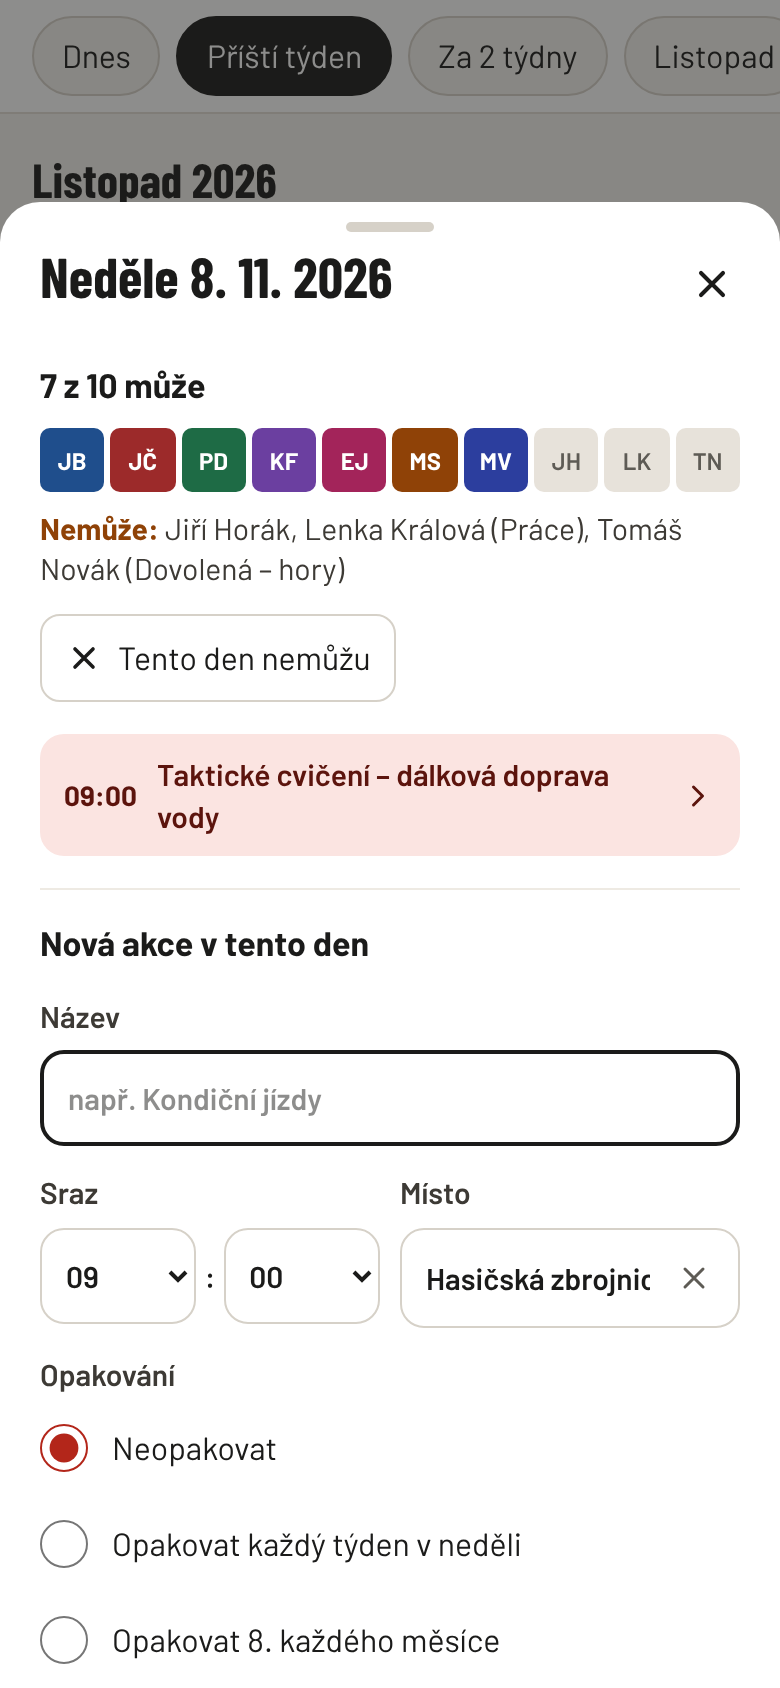
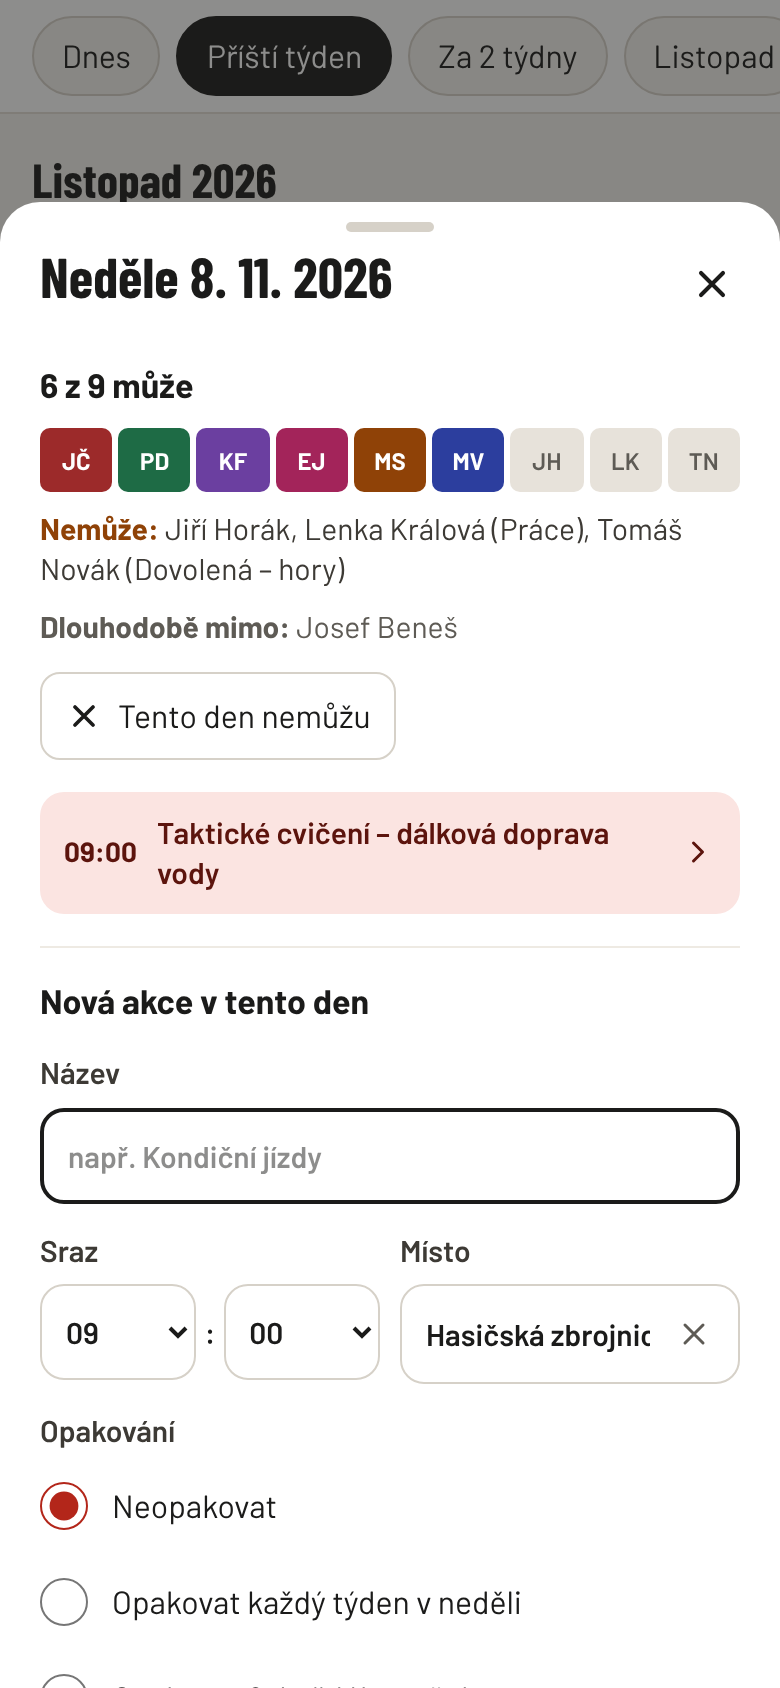
Leave long-term unavailable out of counts; add past events history
- Members with "Nejsem k dispozici" on are not counted in the plan, day
  panel or event page and are listed as "Dlouhodobě mimo" instead.
- Jednotka: collapsed "Proběhlé akce" list with who came and who didn't.
  Past event pages use past wording and the bar corrects attendance.
- History stays accurate: past exceptions are kept, and members don't
  count before the day they were added.

Claude-Session: https://claude.ai/code/session_01Tw2HyHCeMMuzQudBhUZWgA

Changed region(s): [[0.0308, 0.3389, 0.9538, 1.0], [0.0308, 0.2156, 0.9231, 0.3081], [0.9231, 0.7393, 0.9538, 0.8009]]

diff --git a/src/routes/jednotka/+page.svelte b/src/routes/jednotka/+page.svelte
@@ -72,6 +72,11 @@
 	});
 	let showAllEvents = $state(false);
 
+	// Past events, newest first: who was there and who wasn't. Collapsed, it's rarely needed.
+	const pastEvents = $derived(data.events.filter((e) => e.date < today).reverse());
+	let pastOpen = $state(false);
+	let showAllPast = $state(false);
+
 	async function backAvailable(m: Member) {
 		await data.setUnavailable(m.id, false).catch(() => toasts.error());
 	}
@@ -279,7 +284,7 @@
 						</span>
 						<span class="shrink-0 font-bold whitespace-nowrap"
 							>{av.available.length}<span class="text-sm font-semibold text-faint"
-								>/{data.members.length}</span
+								>/{av.total}</span
 							></span
 						>
 						<Icon name="chevronRight" size={18} class="shrink-0 text-faint" />
@@ -297,6 +302,59 @@
 				{showAllEvents ? 'Zobrazit méně' : `Zobrazit všechny (${upcomingEvents.length})`}
 				<Icon name={showAllEvents ? 'chevronUp' : 'chevronDown'} />
 			</button>
+		{/if}
+	</section>
+
+	<!-- Past events -->
+	<section class="flex flex-col rounded-2xl border border-line bg-surface px-4 py-2">
+		<button
+			type="button"
+			aria-expanded={pastOpen}
+			class="flex min-h-11 items-center justify-between text-left"
+			onclick={() => (pastOpen = !pastOpen)}
+		>
+			<h2 class="text-[1.0625rem] font-bold">Proběhlé akce ({pastEvents.length})</h2>
+			<Icon name={pastOpen ? 'chevronUp' : 'chevronDown'} />
+		</button>
+		{#if pastOpen}
+			<p class="pb-2 text-[0.9375rem] leading-snug text-muted">
+				Kdo přišel a kdo ne, podle zapsaných nepřítomností.
+			</p>
+			{#if pastEvents.length === 0}
+				<p class="pb-2 text-[0.9375rem] text-muted">Zatím žádná akce neproběhla.</p>
+			{/if}
+			<ul class="flex flex-col">
+				{#each showAllPast ? pastEvents : pastEvents.slice(0, 10) as ev (ev.id)}
+					{@const av = data.availability(ev.date)}
+					<li class="border-t border-line-soft">
+						<a href="/akce/{ev.id}" class="flex min-h-[3.25rem] items-center gap-3 py-1.5">
+							<span class="flex min-w-0 flex-1 flex-col">
+								<span class="font-medium">{ev.title}</span>
+								<span class="text-[0.9375rem] text-muted"
+									>{formatShort(ev.date)}{av.away.length
+										? ` · nepřišli: ${av.away.map(({ member }) => member.name).join(', ')}`
+										: ''}</span
+								>
+							</span>
+							<span class="shrink-0 font-bold whitespace-nowrap"
+								>{av.available.length}<span class="text-sm font-semibold text-faint">/{av.total}</span></span
+							>
+							<Icon name="chevronRight" size={18} class="shrink-0 text-faint" />
+						</a>
+					</li>
+				{/each}
+			</ul>
+			{#if pastEvents.length > 10}
+				<button
+					type="button"
+					aria-expanded={showAllPast}
+					class="flex min-h-11 items-center justify-between border-t border-line-soft font-semibold text-muted"
+					onclick={() => (showAllPast = !showAllPast)}
+				>
+					{showAllPast ? 'Zobrazit méně' : `Zobrazit všechny (${pastEvents.length})`}
+					<Icon name={showAllPast ? 'chevronUp' : 'chevronDown'} />
+				</button>
+			{/if}
 		{/if}
 	</section>
 

diff --git a/src/lib/data.svelte.ts b/src/lib/data.svelte.ts
@@ -20,6 +20,7 @@ import {
 	formatShort,
 	OPEN_END,
 	todayKey,
+	toKey,
 	weekdayIndex,
 	type DateKey
 } from './dates';
@@ -33,6 +34,8 @@ export interface Member {
 	color: string;
 	/** Archived members drop out of the plan; their colour becomes free again. */
 	archived: boolean;
+	/** Day the member was added; earlier days don't count them (history). */
+	since?: DateKey;
 }
 
 /** Whole-day absence, inclusive range. */
@@ -120,10 +123,9 @@ export function absenceWhen(a: Absence, today: DateKey): string {
 	return (rule ? `${rule}, ${range}` : range) + except;
 }
 
-/** The exception list with `day` added or removed; past days are dropped to keep it short. */
+/** The exception list with `day` added or removed. Past days stay: they are the history. */
 function withException(a: Absence, day: DateKey, on: boolean): DateKey[] {
-	const today = todayKey();
-	const rest = a.except.filter((d) => d !== day && d >= today);
+	const rest = a.except.filter((d) => d !== day && d >= a.from);
 	return (on ? [...rest, day] : rest).sort();
 }
 
@@ -197,6 +199,10 @@ const byDateTime = (a: Event, b: Event) => (a.date + a.time).localeCompare(b.dat
 export interface DayAvailability {
 	available: Member[];
 	away: { member: Member; absence: Absence }[];
+	/** Long-term unavailable ("Nejsem k dispozici" on): left out of the count and the bar. */
+	inactive: { member: Member; absence: Absence }[];
+	/** Members who count that day: available + away. */
+	total: number;
 }
 
 const collator = new Intl.Collator('cs');
@@ -351,7 +357,14 @@ class Data {
 					this.allMembers = snap.docs
 						.map((d) => {
 							const x = d.data();
-							return { id: d.id, name: x.name, color: x.color, archived: x.archived === true };
+							const created: Date | undefined = x.createdAt?.toDate?.();
+							return {
+								id: d.id,
+								name: x.name,
+								color: x.color,
+								archived: x.archived === true,
+								...(created ? { since: toKey(created) } : {})
+							};
 						})
 						.sort(byLastName);
 					this.loaded.members = true;
@@ -505,8 +518,18 @@ class Data {
 	availability(day: DateKey): DayAvailability {
 		const available: Member[] = [];
 		const away: DayAvailability['away'] = [];
+		const inactive: DayAvailability['inactive'] = [];
 		for (const member of this.members) {
+			if (member.since && member.since > day) continue;
 			const pending = this.pending[`${member.id}|${day}`];
+			const off =
+				pending === false
+					? undefined
+					: this.absences.find((a) => a.memberId === member.id && isSwitch(a) && covers(a, day));
+			if (off) {
+				inactive.push({ member, absence: off });
+				continue;
+			}
 			const absence =
 				pending === false
 					? undefined
@@ -517,7 +540,7 @@ class Data {
 			if (absence) away.push({ member, absence });
 			else available.push(member);
 		}
-		return { available, away };
+		return { available, away, inactive, total: available.length + away.length };
 	}
 
 	/** Default places first, then places used before (most recent first), for the event form. */

diff --git a/src/routes/akce/[id]/+page.svelte b/src/routes/akce/[id]/+page.svelte
@@ -4,7 +4,7 @@
 	import { access } from '#lib/access.svelte.js';
 	import { initials } from '#lib/colors.js';
 	import { data } from '#lib/data.svelte.js';
-	import { formatLong, OPEN_END, formatShort } from '#lib/dates.js';
+	import { formatLong, OPEN_END, formatShort, todayKey } from '#lib/dates.js';
 	import { describe, lastDay, nextAfter, WEEKLY } from '#lib/repeat.js';
 	import { toasts } from '#lib/toast.svelte.js';
 	import AvailabilityBar from '#lib/components/AvailabilityBar.svelte';
@@ -16,7 +16,9 @@
 	const me = $derived(data.member(access.memberId));
 	const avail = $derived(ev ? data.availability(ev.date) : null);
 	const myAbsence = $derived(ev && me ? data.absenceOn(me.id, ev.date) : undefined);
-	const total = $derived(data.members.length);
+	const total = $derived(avail?.total ?? 0);
+	/** Past events show who was there; the bar still corrects it. */
+	const past = $derived(!!ev && ev.date < todayKey());
 
 	const series = $derived(ev ? data.seriesOf(ev) : undefined);
 	/** Later repeats exist, so "this and all later" choices make sense. */
@@ -187,7 +189,7 @@
 		</section>
 
 		<div class="flex flex-col gap-3.5 px-5 pb-8">
-			{#if me}
+			{#if me && !past}
 				{#if !myAbsence}
 					<div class="flex flex-col gap-3 rounded-2xl border border-line bg-surface p-4">
 						<div class="flex items-center gap-2.5">
@@ -245,8 +247,13 @@
 
 			{#if avail}
 				<div class="flex flex-col gap-2.5 rounded-2xl border border-line bg-surface p-4">
-					<span class="font-bold">{avail.available.length} z {total} přijde</span>
+					<span class="font-bold"
+						>{past ? `Přišlo ${avail.available.length} z ${total}` : `${avail.available.length} z ${total} přijde`}</span
+					>
 					<AvailabilityBar availability={avail} ontoggle={(m) => toggleMemberDay(m, ev.date)} />
+					{#if past}
+						<span class="text-sm text-muted">Klepnutím na člena opravíte docházku.</span>
+					{/if}
 					<div class="flex flex-wrap gap-1.5 pt-1">
 						{#each avail.available as m (m.id)}
 							<span class="rounded-lg px-2 py-1 text-sm font-semibold text-white" style="background: {m.color}"
@@ -259,7 +266,7 @@
 				{#if avail.away.length}
 					<section class="flex flex-col rounded-2xl border border-line bg-surface p-4">
 						<h2 class="mb-1.5 text-[0.9375rem] font-bold tracking-[0.06em] text-warn uppercase">
-							Nepřijdou ({avail.away.length})
+							{past ? 'Nepřišli' : 'Nepřijdou'} ({avail.away.length})
 						</h2>
 						{#each avail.away as { member, absence } (member.id)}
 							<div class="flex items-center gap-2.5 border-t border-line-soft py-2.5">
@@ -274,6 +281,13 @@
 							</div>
 						{/each}
 					</section>
+				{/if}
+
+				{#if avail.inactive.length}
+					<p class="text-[0.9375rem] leading-snug text-muted">
+						<strong class="font-bold">Dlouhodobě mimo:</strong>
+						{avail.inactive.map(({ member }) => member.name).join(', ')}
+					</p>
 				{/if}
 			{/if}
 

diff --git a/src/routes/+page.svelte b/src/routes/+page.svelte
@@ -278,8 +278,7 @@
 	>
 		<button
 			type="button"
-			aria-label="{DOW_LONG[wd]} {formatDayMonth(key)}: může {av.available.length} z {data.members
-				.length}. Otevřít den."
+			aria-label="{DOW_LONG[wd]} {formatDayMonth(key)}: může {av.available.length} z {av.total}. Otevřít den."
 			class="flex min-h-11 w-10 shrink-0 flex-col items-center lg:w-[6.25rem] lg:flex-row lg:gap-2">
 			<span
 				class="text-xs font-bold tracking-[0.06em] lg:order-2 lg:text-sm lg:font-semibold lg:tracking-normal lg:normal-case {red
@@ -327,11 +326,11 @@
 				<span
 					class="shrink-0 text-right text-[1.1875rem] leading-tight font-bold whitespace-nowrap lg:hidden {countClass(
 						av.available.length,
-						data.members.length
+						av.total
 					)}"
 				>
 					{av.available.length}<span class="text-xs font-semibold text-faint"
-						>/{data.members.length}</span
+						>/{av.total}</span
 					>
 				</span>
 			</span>
@@ -341,11 +340,11 @@
 		<span
 			class="hidden w-[4.375rem] shrink-0 text-right text-xl font-bold whitespace-nowrap lg:block {countClass(
 				av.available.length,
-				data.members.length
+				av.total
 			)}"
 		>
 			{av.available.length}<span class="text-[0.8125rem] font-semibold text-faint"
-				>&nbsp;/{data.members.length}</span
+				>&nbsp;/{av.total}</span
 			>
 		</span>
 	</div>
@@ -389,8 +388,10 @@
 				>Členové ({data.members.length})</span
 			>
 			{#each data.members as m (m.id)}
-				<span class="flex min-h-[2.125rem] items-center gap-2.5 text-[0.9375rem]">
-					<span class="size-3.5 shrink-0 rounded" style="background: {m.color}"></span>{m.name}
+				{@const off = !!data.openAbsence(m.id)}
+				<span class="flex min-h-[2.125rem] items-center gap-2.5 text-[0.9375rem] {off ? 'text-muted' : ''}">
+					<span class="size-3.5 shrink-0 rounded {off ? 'bg-off' : ''}" style={off ? undefined : `background: ${m.color}`}
+					></span>{m.name}{#if off}<span class="sr-only">, není k dispozici</span>{/if}
 				</span>
 			{/each}
 		</section>

diff --git a/src/lib/demo.ts b/src/lib/demo.ts
@@ -42,6 +42,8 @@ export function demoData(count = 10): {
 		{ id: 'a6', memberId: 'm4', from: d(10), to: d(10), note: '', except: [] },
 		{ id: 'a7', memberId: 'm6', from: d(10), to: d(10), note: 'Práce', except: [] },
 		{ id: 'a8', memberId: 'm9', from: d(12), to: d(16), note: 'Služební cesta', except: [] },
+		{ id: 'a10', memberId: 'm0', from: d(-12), to: OPEN_END, note: 'Zranění', except: [] },
+		{ id: 'a11', memberId: 'm3', from: d(-7), to: d(-7), note: 'Práce', except: [] },
 		{ id: 'a9', memberId: 'm2', from: d(0), to: OPEN_END, note: 'Práce', except: [], repeat: { freq: 'week', every: 1, weekdays: [1] } }
 	];
 	const events: Event[] = [
@@ -54,6 +56,8 @@ export function demoData(count = 10): {
 			note: ''
 		},
 		{ id: 'e2', title: 'Kondiční jízdy', date: d(14), time: '18:00', place: 'Hasičská zbrojnice', note: '' },
+		{ id: 'e4', title: 'Kondiční jízdy', date: d(-7), time: '18:00', place: 'Hasičská zbrojnice', note: '' },
+		{ id: 'e5', title: 'Školení první pomoci', date: d(-20), time: '18:30', place: 'Klubovna', note: '' },
 		{ id: 'e3', title: 'Školení dýchací techniky', date: d(22), time: '18:30', place: 'Klubovna', note: '' }
 	];
 	const series: Series[] = [

diff --git a/src/lib/components/DayPanel.svelte b/src/lib/components/DayPanel.svelte
@@ -11,7 +11,7 @@
 	let { day, onclose }: { day: DateKey; onclose: () => void } = $props();
 
 	const avail = $derived(data.availability(day));
-	const total = $derived(data.members.length);
+	const total = $derived(avail.total);
 	const events = $derived(data.eventsOn(day));
 	const myAbsence = $derived(access.memberId ? data.absenceOn(access.memberId, day) : undefined);
 	const title = $derived(formatLong(day).replace(/^./, (c) => c.toUpperCase()));
@@ -71,6 +71,12 @@
 						? ', '
 						: ''}
 				{/each}
+			</p>
+		{/if}
+		{#if avail.inactive.length}
+			<p class="text-[0.9375rem] leading-snug text-muted">
+				<strong class="font-bold">Dlouhodobě mimo:</strong>
+				{avail.inactive.map(({ member }) => member.name).join(', ')}
 			</p>
 		{/if}
 		{#if access.memberId}

diff --git a/src/lib/components/AvailabilityBar.svelte b/src/lib/components/AvailabilityBar.svelte
@@ -71,7 +71,9 @@
 {/snippet}
 
 {#if total === 0}
-	<span class="text-sm text-faint">Zatím žádní členové</span>
+	<span class="text-sm text-faint"
+		>{availability.inactive.length ? 'Nikdo není k dispozici' : 'Zatím žádní členové'}</span
+	>
 {:else}
 	<span
 		class="grid gap-[3px] {cols}"

diff --git a/README.md b/README.md
@@ -66,12 +66,14 @@ a každý může klepnout na „Nemůžu přijít“.
 
 **Moje nepřítomnost.** Každý si zapíše, kdy nemůže: jeden den, několik dní za sebou
 (dovolená), nebo pravidelně (např. „každé úterý – práce“). Přepínač „Nejsem
-k dispozici“ platí do odvolání, třeba při nemoci nebo zranění. Pro jednotlivé dny jde
-udělat výjimku.
+k dispozici“ platí do odvolání, třeba při nemoci nebo zranění. Kdo ho má zapnutý,
+nepočítá se do počtu v plánu ani u akcí (je jen uvedený jako „Dlouhodobě mimo“). Pro
+jednotlivé dny jde udělat výjimku.
 
 **Jednotka.** Název jednotky, odkaz pro členy, heslo, seznam členů (přidat,
-přejmenovat, změnit barvu, archivovat), přehled nadcházejících nepřítomností a akcí
-a seznam míst, kde se akce konají.
+přejmenovat, změnit barvu, archivovat), přehled nadcházejících nepřítomností a akcí,
+proběhlé akce (kdo přišel a kdo ne, podle zapsaných nepřítomností; opravit se to dá
+klepnutím na člena u akce) a seznam míst, kde se akce konají.
 
 Dále:
 

diff --git a/HANDOVER.md b/HANDOVER.md
@@ -62,6 +62,14 @@ direction; older rows are superseded.
   normal one-day absence for that date. "Přece jen přijdu" frees that day
   again: covering absences are deleted, shortened or split
   (`data.markAvailable`).
+- **Long-term unavailable** (the switch is on for that day): left out of the
+  count, the bar and "Nemůže" on the plan, day panel and event page
+  (`DayAvailability.inactive`, `.total`); listed as "Dlouhodobě mimo".
+- **History:** Jednotka has a collapsed "Proběhlé akce" list (newest first).
+  A past event page says "Přišlo X z Y" / "Nepřišli", hides "Nemůžu přijít",
+  and the bar still corrects attendance. It is derived from absences, so
+  exceptions on past days are kept (`withException`), and members don't count
+  before the day they were added (`Member.since`, from `createdAt`).
 - **Member colours:** a fixed 20-colour palette (`lib/colors.ts`), assigned
   on creation as the least-used colour among active members.
   - Archiving a member frees their colour.
